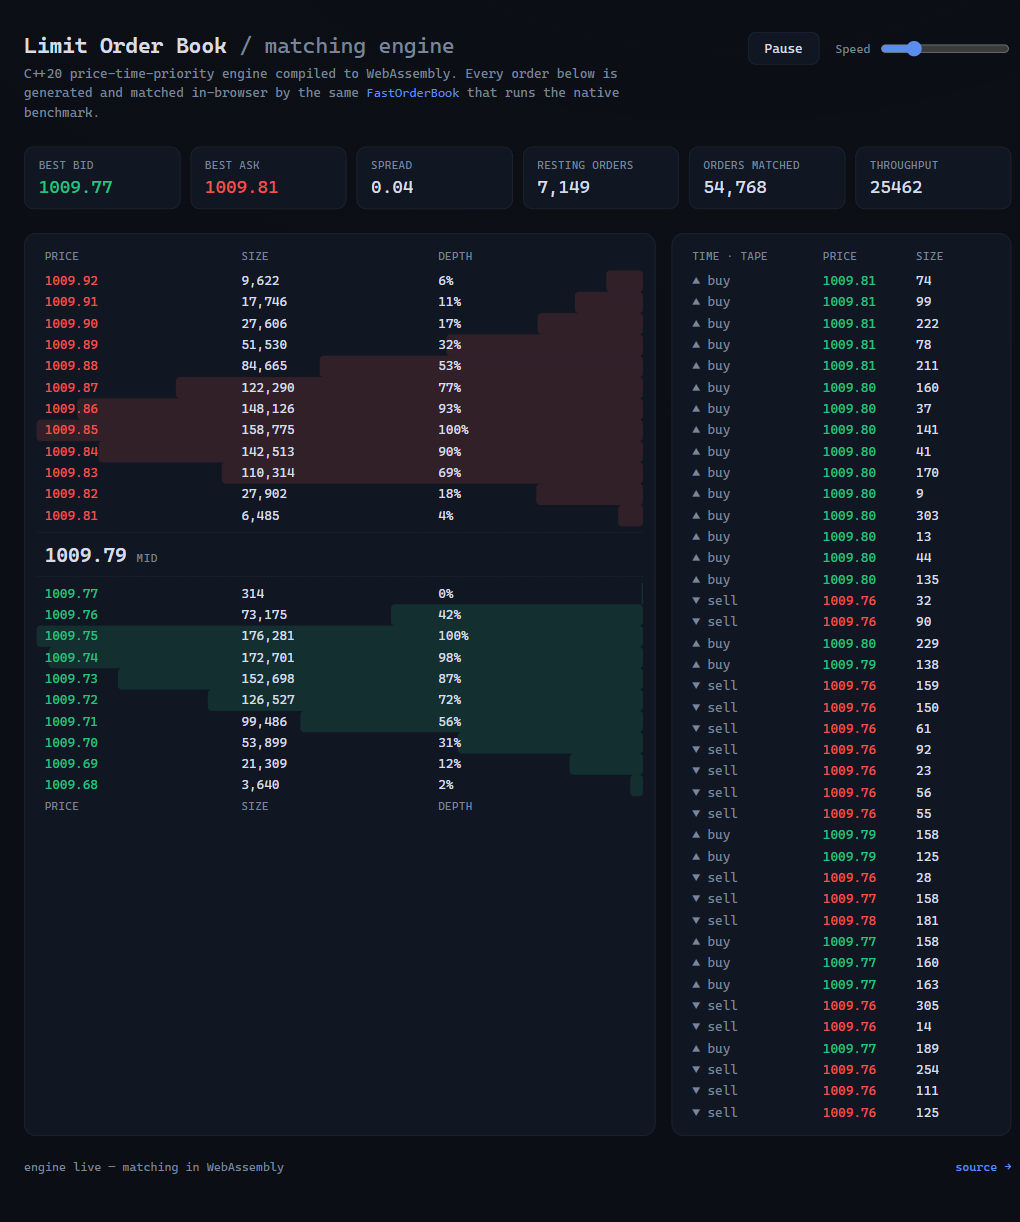
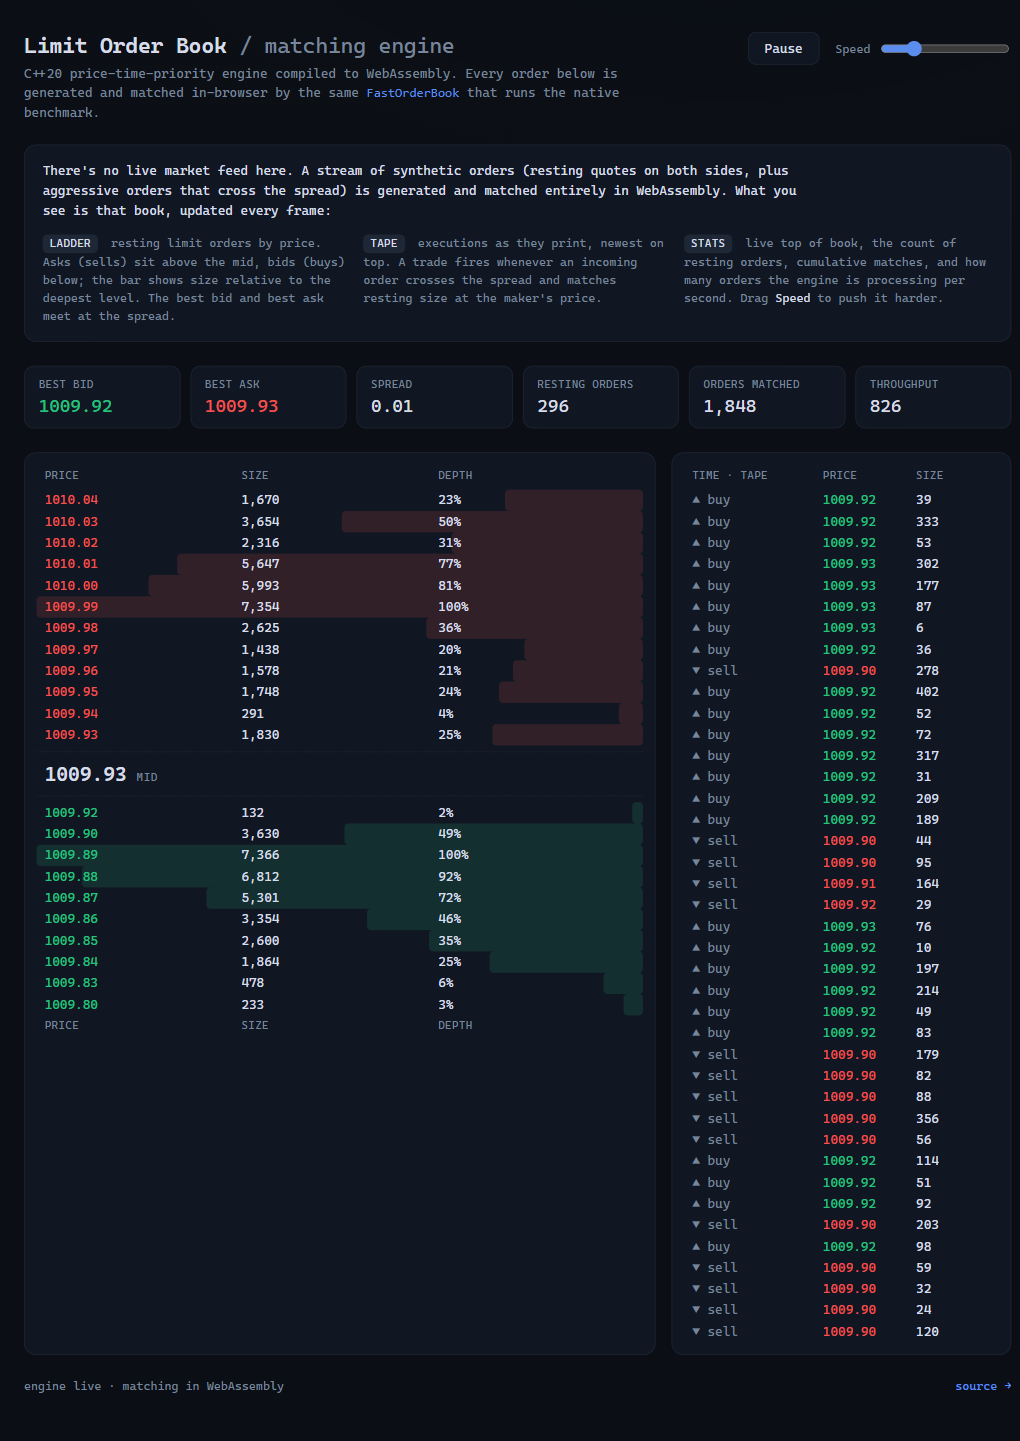
Add benchmark chart, demo preamble; de-slop prose and comments
- README: benchmarks section with a generated latency+throughput chart
  (docs/benchmark.png via scripts/plot_benchmark.py), best-of-8 numbers.
  Report the stable metric (fast book cuts median per-order latency
  538ns -> 344ns, ~1.5x) and give an honest throughput range instead of
  a single lucky multiple.
- Demo: an explainer preamble telling the viewer what the ladder, tape,
  and stats show, and that the order flow is synthetic.
- Copy-edit README, BENCHMARKS, web docs, and code comments: drop
  em-dashes, adverbs, and negative-contrast phrasing.
- Refresh the demo screenshot to include the preamble.

diff --git a/web/public/index.html b/web/public/index.html
@@ -3,7 +3,7 @@
   <head>
     <meta charset="utf-8" />
     <meta name="viewport" content="width=device-width, initial-scale=1" />
-    <title>Limit Order Book — live matching engine (WASM)</title>
+    <title>Limit Order Book · live matching engine (WASM)</title>
     <meta
       name="description"
       content="A C++20 price-time-priority matching engine compiled to WebAssembly, matching a live synthetic order flow in your browser."
@@ -29,6 +29,33 @@
           </label>
         </div>
       </header>
+
+      <section class="explainer">
+        <p>
+          There's no live market feed here. A stream of synthetic orders (resting
+          quotes on both sides, plus aggressive orders that cross the spread) is
+          generated and matched entirely in WebAssembly. What you see is that book,
+          updated every frame:
+        </p>
+        <ul class="legend">
+          <li>
+            <span class="tag">Ladder</span> resting limit orders by price. Asks
+            (sells) sit above the mid, bids (buys) below; the bar shows size
+            relative to the deepest level. The best bid and best ask meet at the
+            spread.
+          </li>
+          <li>
+            <span class="tag">Tape</span> executions as they print, newest on top.
+            A trade fires whenever an incoming order crosses the spread and matches
+            resting size at the maker's price.
+          </li>
+          <li>
+            <span class="tag">Stats</span> live top of book, the count of resting
+            orders, cumulative matches, and how many orders the engine is
+            processing per second. Drag <em>Speed</em> to push it harder.
+          </li>
+        </ul>
+      </section>
 
       <section class="stats" id="stats">
         <div class="stat"><span class="label">Best bid</span><span id="s-bid" class="val bid">—</span></div>

diff --git a/web/public/styles.css b/web/public/styles.css
@@ -97,6 +97,54 @@ h1 .accent {
   accent-color: var(--accent);
 }
 
+.explainer {
+  margin: 22px 0 4px;
+  background: var(--panel);
+  border: 1px solid var(--line);
+  border-radius: 12px;
+  padding: 16px 18px;
+}
+
+.explainer p {
+  margin: 0 0 12px;
+  color: var(--text);
+  font-size: 13px;
+  line-height: 1.55;
+  max-width: 780px;
+}
+
+.legend {
+  list-style: none;
+  margin: 0;
+  padding: 0;
+  display: grid;
+  grid-template-columns: repeat(3, 1fr);
+  gap: 12px;
+}
+
+.legend li {
+  color: var(--muted);
+  font-size: 12px;
+  line-height: 1.5;
+}
+
+.legend .tag {
+  display: inline-block;
+  margin-right: 6px;
+  padding: 1px 7px;
+  border-radius: 5px;
+  background: var(--line);
+  color: var(--text);
+  font-size: 11px;
+  text-transform: uppercase;
+  letter-spacing: 0.04em;
+}
+
+.legend em {
+  color: var(--text);
+  font-style: normal;
+}
+
 .stats {
   display: grid;
   grid-template-columns: repeat(6, 1fr);
@@ -267,6 +315,9 @@ h1 .accent {
 @media (max-width: 860px) {
   .stats {
     grid-template-columns: repeat(3, 1fr);
+  }
+  .legend {
+    grid-template-columns: 1fr;
   }
   .book {
     grid-template-columns: 1fr;

diff --git a/web/public/app.js b/web/public/app.js
@@ -60,7 +60,7 @@ async function main() {
 
   const seed = (Date.now() & 0xffffffff) >>> 0;
   const sim = new mod.MarketSim(seed, FLOOR, TICKS, QTY_MAX);
-  status.textContent = "engine live — matching in WebAssembly";
+  status.textContent = "engine live · matching in WebAssembly";
 
   let running = true;
   let batch = 12; // orders per frame; driven by the speed slider

diff --git a/scripts/plot_benchmark.py b/scripts/plot_benchmark.py
@@ -1,0 +1,91 @@
+#!/usr/bin/env python3
+"""Render the benchmark comparison chart used in the README.
+
+Numbers are the best of 8 `bench` runs (best-case strips OS-scheduler noise from
+a latency micro-benchmark). Edit the two dicts below after re-running `bench` on
+a new machine, then regenerate:
+
+    python scripts/plot_benchmark.py   # -> docs/benchmark.png
+"""
+from pathlib import Path
+
+import matplotlib
+
+matplotlib.use("Agg")
+import matplotlib.pyplot as plt
+from matplotlib.ticker import FuncFormatter
+
+# Best-of-8 results (2,000,000-op workload, 1024-tick band).
+NAIVE = {"p50": 538.2, "p99": 2796.5, "p99.9": 31396.9, "throughput": 3.22}
+FAST = {"p50": 343.9, "p99": 2317.7, "p99.9": 20821.3, "throughput": 4.02}
+
+GRID = "#d8dee9"
+NAIVE_C = "#8894a8"  # muted slate = the baseline
+FAST_C = "#1eb980"  # green = the faster build
+TEXT = "#2b3440"
+
+
+def ns_label(v):
+    return f"{v/1000:.1f} µs" if v >= 1000 else f"{v:.0f} ns"
+
+
+def main() -> int:
+    fig, (ax_lat, ax_tp) = plt.subplots(1, 2, figsize=(10, 4.2), width_ratios=[2, 1])
+    fig.suptitle(
+        "Order-book performance: naive std::map vs cache-friendly ladder",
+        fontsize=13, fontweight="bold", color=TEXT, x=0.5, y=0.98,
+    )
+
+    # --- Latency percentiles (log scale: p50 and p99.9 differ ~60x) ----------
+    pcts = ["p50", "p99", "p99.9"]
+    x = range(len(pcts))
+    w = 0.38
+    naive_vals = [NAIVE[p] for p in pcts]
+    fast_vals = [FAST[p] for p in pcts]
+
+    b1 = ax_lat.bar([i - w / 2 for i in x], naive_vals, w, label="naive (map)", color=NAIVE_C)
+    b2 = ax_lat.bar([i + w / 2 for i in x], fast_vals, w, label="fast (ladder)", color=FAST_C)
+    ax_lat.set_yscale("log")
+    ax_lat.set_ylabel("latency per order (log scale)", color=TEXT, fontsize=10)
+    ax_lat.set_title("Per-order latency — lower is better", color=TEXT, fontsize=11, pad=8)
+    ax_lat.set_xticks(list(x))
+    ax_lat.set_xticklabels(pcts)
+    ax_lat.yaxis.set_major_formatter(FuncFormatter(lambda v, _: ns_label(v)))
+    for bars, vals in ((b1, naive_vals), (b2, fast_vals)):
+        for rect, v in zip(bars, vals):
+            ax_lat.text(rect.get_x() + rect.get_width() / 2, v * 1.06, ns_label(v),
+                        ha="center", va="bottom", fontsize=8, color=TEXT)
+    ax_lat.legend(frameon=False, fontsize=9, loc="upper left")
+
+    # --- Throughput ----------------------------------------------------------
+    tb = ax_tp.bar(["naive", "fast"], [NAIVE["throughput"], FAST["throughput"]],
+                   color=[NAIVE_C, FAST_C], width=0.6)
+    ax_tp.set_title("Throughput — higher is better", color=TEXT, fontsize=11, pad=8)
+    ax_tp.set_ylabel("million ops / sec", color=TEXT, fontsize=10)
+    for rect, v in zip(tb, [NAIVE["throughput"], FAST["throughput"]]):
+        ax_tp.text(rect.get_x() + rect.get_width() / 2, v + 0.05, f"{v:.1f}M",
+                   ha="center", va="bottom", fontsize=9, color=TEXT)
+    ax_tp.set_ylim(0, max(NAIVE["throughput"], FAST["throughput"]) * 1.18)
+
+    for ax in (ax_lat, ax_tp):
+        ax.grid(axis="y", color=GRID, linewidth=0.7, alpha=0.7)
+        ax.set_axisbelow(True)
+        for spine in ("top", "right"):
+            ax.spines[spine].set_visible(False)
+        for spine in ("left", "bottom"):
+            ax.spines[spine].set_color(GRID)
+        ax.tick_params(colors=TEXT, labelsize=9)
+
+    fig.text(0.5, 0.005, "best of 8 runs · 2,000,000-op workload · 1024-tick band",
+             ha="center", fontsize=8, color="#8894a8")
+    fig.tight_layout(rect=(0, 0.02, 1, 0.96))
+
+    out = Path(__file__).resolve().parent.parent / "docs" / "benchmark.png"
+    out.parent.mkdir(exist_ok=True)
+    fig.savefig(out, dpi=150, facecolor="white")
+    print(f"Wrote {out}")
+    return 0
+
+
+if __name__ == "__main__":
+    raise SystemExit(main())

diff --git a/scripts/fetch_itch.py b/scripts/fetch_itch.py
@@ -1,7 +1,7 @@
 #!/usr/bin/env python3
 """Fetch a prefix of a real NASDAQ TotalView-ITCH 5.0 file for validation.
 
-The published daily files are 3-5 GB gzipped (tens of GB raw) — far more than a
+The published daily files are 3-5 GB gzipped (tens of GB raw), far more than a
 correctness check needs. This downloads only the first N megabytes via an HTTP
 Range request, then streams them through gunzip, stopping cleanly when the
 compressed prefix runs out. The result is a truncated-but-valid ITCH byte stream
@@ -43,7 +43,7 @@ def fetch_prefix(date: str, mb: int, out: Path) -> None:
             try:
                 raw = dec.decompress(chunk)
             except zlib.error as e:
-                # Truncated deflate stream at our cut point — keep what we have.
+                # Truncated deflate stream at our cut point; keep what we have.
                 print(f"  (stream cut mid-block: {e}); using decoded prefix", flush=True)
                 break
             fh.write(raw)
@@ -51,7 +51,7 @@ def fetch_prefix(date: str, mb: int, out: Path) -> None:
 
     print(f"Wrote {out} ({raw_total / 1048576:.1f} MB raw ITCH)", flush=True)
     if raw_total == 0:
-        sys.exit("error: decoded 0 bytes — download or gunzip failed")
+        sys.exit("error: decoded 0 bytes; download or gunzip failed")
 
 
 def main() -> int:

diff --git a/web/wasm/lob_wasm.cpp b/web/wasm/lob_wasm.cpp
@@ -1,6 +1,6 @@
 // WebAssembly entry point for the live browser demo. Wraps FastOrderBook in a
-// self-contained market simulator so the *entire* hot loop — order generation
-// and matching — runs in WASM; JavaScript only pulls a snapshot each frame and
+// self-contained market simulator so the *entire* hot loop (order generation
+// and matching) runs in WASM; JavaScript only pulls a snapshot each frame and
 // draws it. Built with Emscripten + embind (see web/build.sh).
 
 #include <cstdint>
@@ -17,7 +17,7 @@ using namespace lob;
 
 namespace {
 
-// Append an integer to a JSON string without pulling in a JSON library — the
+// Append an integer to a JSON string without pulling in a JSON library. The
 // snapshot is tiny and built many times per second, so this stays allocation-lean.
 void put_int(std::string& s, long long v) { s += std::to_string(v); }
 
@@ -25,7 +25,7 @@ void put_int(std::string& s, long long v) { s += std::to_string(v); }
 
 // A tiny synthetic exchange: a stream of passive and aggressive orders around a
 // wandering mid-price, matched by the real engine. Produces a live, moving book
-// and a trade tape — enough to show the matching engine working, with no data to
+// and a trade tape, enough to show the matching engine working, with no data to
 // download.
 class MarketSim {
 public:

diff --git a/include/lob/itch/reconstructor.hpp b/include/lob/itch/reconstructor.hpp
@@ -14,7 +14,7 @@ namespace lob::itch {
 // Rebuilds the displayed order book for a single symbol from an ITCH 5.0 stream.
 //
 // ITCH states executions, cancels, deletes and replaces explicitly, so this is
-// pure event application onto the book's maintenance API — never matching. Only
+// pure event application onto the book's maintenance API, never matching. Only
 // messages for the target stock locate affect the book; order-reference messages
 // (E/C/X/D/U) carry no symbol, so we simply apply them and rely on the fact that
 // order references are unique per day: a reference we never added is not ours.

diff --git a/tests/test_itch_reconstructor.cpp b/tests/test_itch_reconstructor.cpp
@@ -3,7 +3,7 @@
 // messages (field offsets straight from the Nasdaq TotalView-ITCH 5.0 spec) and
 // replay them through the Reconstructor, asserting the rebuilt book. Because the
 // bytes are built to the published spec, agreement here is real evidence the
-// decoder handles the wire format correctly — the same decoder then drives the
+// decoder handles the wire format correctly; the same decoder then drives the
 // itch_validate tool against genuine feeds.
 
 #include "lob/itch/itch.hpp"

diff --git a/include/lob/bench/histogram.hpp b/include/lob/bench/histogram.hpp
@@ -13,7 +13,7 @@
 namespace lob::bench {
 
 // Reads the CPU timestamp counter where available (single-instruction, ~sub-ns
-// resolution — the only clock fine-grained enough to time individual order-book
+// resolution: the only clock fine-grained enough to time individual order-book
 // operations, which run in tens of nanoseconds). Falls back to steady_clock ns
 // on non-x86. The unit is "ticks"; calibrate() converts ticks to nanoseconds.
 inline std::uint64_t now_ticks() noexcept {

diff --git a/scripts/reference_reconstruct.py b/scripts/reference_reconstruct.py
@@ -31,7 +31,7 @@ def be(payload: bytes, off: int, width: int) -> int:
 
 def select_symbol(data: bytes, ticker: str | None):
     """Return (target_locate, ticker). Auto-selects the most active symbol,
-    tie-broken by smallest locate — identical rule to the C++ validator."""
+    tie-broken by smallest locate: identical rule to the C++ validator."""
     locate_to_ticker: dict[int, str] = {}
     adds = defaultdict(int)
     for p in frames(data):

diff --git a/scripts/validate_itch.py b/scripts/validate_itch.py
@@ -52,7 +52,7 @@ def main() -> int:
     args = ap.parse_args()
 
     if not args.bin.exists():
-        sys.exit(f"error: {args.bin} not found — run scripts/fetch_itch.py first")
+        sys.exit(f"error: {args.bin} not found; run scripts/fetch_itch.py first")
 
     cpp = find_cpp_binary(args.cpp)
     cpp_csv = args.bin.with_suffix(".cpp.csv")

diff --git a/src/fast_order_book.cpp b/src/fast_order_book.cpp
@@ -184,7 +184,7 @@ std::vector<Trade> FastOrderBook::add_market(OrderId id, Side side, Quantity qua
     } else {
         match<false>(incoming, trades);
     }
-    // Unfilled market quantity is discarded (never rests) — same as OrderBook.
+    // Unfilled market quantity is discarded (never rests), same as OrderBook.
     return trades;
 }
 
